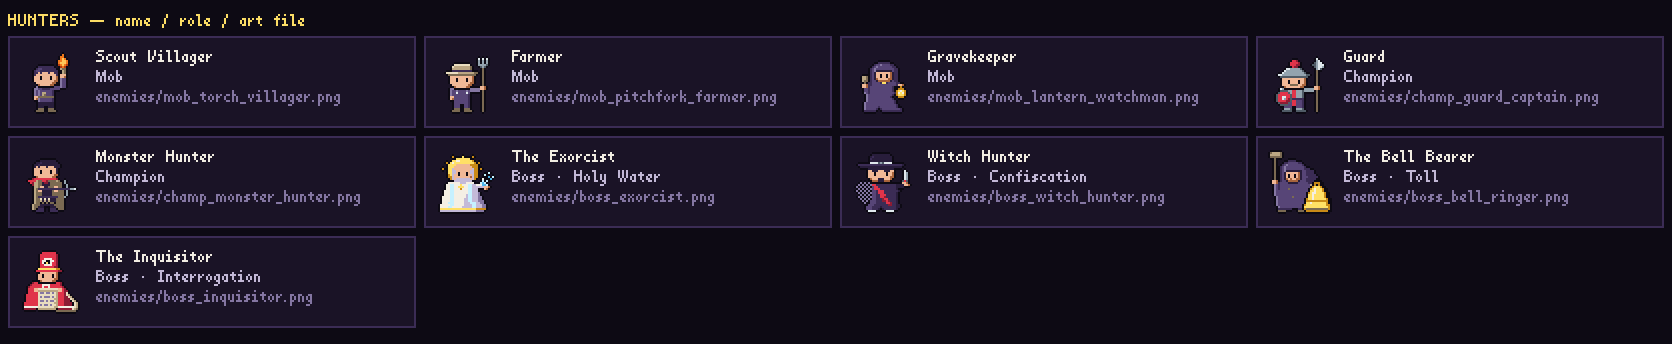
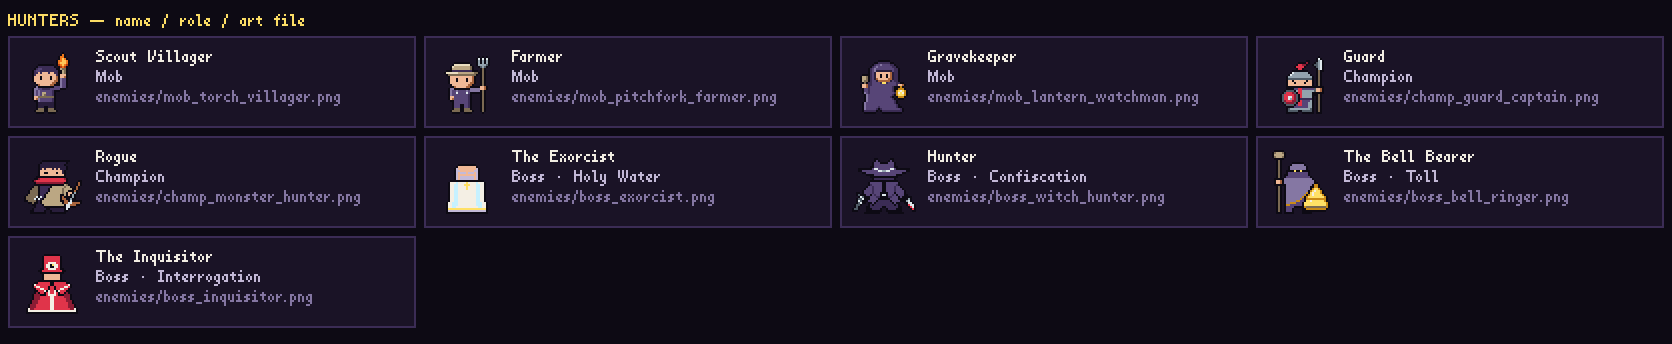
Add champion and boss repaints, rename Hunter and Rogue

diff --git a/tools/art/enemies_dice.py b/tools/art/enemies_dice.py
@@ -70,9 +70,10 @@ def character(rows: list[str], legend: dict | None = None, *, dx: int = 0,
               props: list[tuple[list[str], int, int]] | None = None) -> Image.Image:
     """Grid -> 96x32 sheet: idle0, idle1 (1 px breath, feet fixed), hurt (recoil, eyes shut).
 
-    The row-shear hurt is a placeholder: the designer's style (ART_SPEC §4.5a, boss_bell_ringer.png,
-    hand-painted) distorts the head and breaks the eyes by hand. Repainted sheets are kept on a plain
-    run; never regenerate them with --only / --all.
+    The row-shear hurt is a placeholder: the designer's style (ART_SPEC §4.5a) distorts the head and
+    breaks the eyes by hand. Every champion and boss sheet is hand-painted (2026-10-30); only the
+    three mobs still come from these grids. Repainted sheets are kept on a plain run; never
+    regenerate them with --only / --all.
 
     `props` are grounded part grids (x, y in body-grid coordinates) that do not breathe or
     recoil; each gets its own N0 ring so it stays separated from the body it overlaps.

diff --git a/ART_SPEC.md b/ART_SPEC.md
@@ -194,7 +194,8 @@ Used when the army exceeds 60 visible sprites (GAME_SPEC §11.2).
 
 #### 4.5a Hunter style — designer reference `BOSS_BELL_RINGER` (repaint 2026-10-30)
 
-Every hunter repaint follows the Bell Ringer. Measured on its sheet (10 colours, bbox 29×32):
+Every hunter repaint follows the Bell Ringer; the champion and boss repaints of 2026-10-30 confirm it.
+Measured on its sheet (10 colours, bbox 29×32):
 
 | Trait | Rule |
 |---|---|
@@ -209,6 +210,9 @@ Every hunter repaint follows the Bell Ringer. Measured on its sheet (10 colours,
 | Colours | ≤ 12 (Bell Ringer: 10): `N0`, body mid + shade, accent 2 tones, wood 2 tones, skin 2 tones, `N7` |
 | `idle1` | The head and shoulders (the rows above the cloak's widest line) move **down 1 px**; hem, legs, hand, tool and prop stay |
 | `hurt` | Distorted and grimacing, drawn by hand (no row shear): the head mass **deforms** (pinched up into two points, like hair standing on end), the eye slit **breaks** into a scribble of accent pixels across 2–3 rows, the head shifts 1 px away from the hit, the free arm is **flung out** diagonally (2–3 px of skin). Legs, tool and prop do not move; lowest row stays 31 |
+| `hurt` vocabulary | Pick 2–3 per hunter: **X eyes** (a 3×3 `x` in `N0` or the accent) — every repaint uses them; **head deform** into two points (Bell Ringer, Exorcist); **flung arms** out of the robe (Exorcist, Bell Ringer); **red hit marks**: small `R1` crosses scattered on the body / armour (Guard, Hunter), eyes turning `R1`. When the headgear *is* the character (Inquisitor's eye hat), the headgear takes the hit: it crumples and an X covers its eye. No new colours in `hurt` |
+| Faces | Hidden behind the costume (Bell Ringer slit, Hunter brim, Exorcist hood, Rogue scarf) or a small skin band with 1 px dash eyes (Guard, the man under the Inquisitor's hat) |
+| Colour budget | As few as the role needs: the bosses use 6–7 colours, the champions 11–12; the limit stays 12 |
 
 Checklist for the next repaint: silhouette first at ×1; count colours (≤ 12); 1 px `N0` between parts;
 diff `idle0` / `idle1` (only the upper rows moved 1 px); diff `idle0` / `hurt` (feet and props
@@ -220,12 +224,12 @@ hunter) after `godot --headless --import`.
 | MOB_TORCH_VILLAGER | Peasant in patched tunic holding a torch high | Fire |
 | MOB_PITCHFORK_FARMER | Straw hat, overalls, pitchfork | Metal |
 | MOB_LANTERN_WATCHMAN | Hooded night watchman with lantern and rattle | Gold |
-| CHAMP_GUARD_CAPTAIN | Helmet with red plume, halberd, small shield | Metal + R1 |
-| CHAMP_MONSTER_HUNTER | Long coat, crossbow, wooden stakes on belt | B0 leather + R1 |
-| BOSS_EXORCIST | White-robed priest, sun-disc pendant, holy-water flask splashing | I2 + G1 |
-| BOSS_WITCH_HUNTER | Wide-brimmed hat, net over shoulder, silver dagger, red sash | R1 + M2 |
+| CHAMP_GUARD_CAPTAIN | "Guard": steel helmet with red plume, spear, round red shield, red tabard stripe | M0 / M1 + R1 |
+| CHAMP_MONSTER_HUNTER | "Rogue": spiky black hair, red scarf over the mouth, tan cloak, crossbow at the hip | B1 cloak + R1 |
+| BOSS_EXORCIST | White robe block with a pale hood hiding the face, gold cross on the chest, icy shine streaks | N7 / I2 + G1 |
+| BOSS_WITCH_HUNTER | "Hunter": wide-brimmed hat with a pointed crown hiding the face (white band glint), long dark coat, a dagger in each hand | N3 / N4 + M2 (R1 only when hurt) |
 | BOSS_BELL_RINGER | Hunched figure dragging a huge bronze bell | G0 + G1 |
-| BOSS_INQUISITOR | Tall red hat with open-eye emblem, red robes, long scroll | R0 + R1 |
+| BOSS_INQUISITOR | Tall red hat with a big open eye — the hat is the real Inquisitor, the small man below just carries it; red robe with cream trim | R0 / R1 + N7 |
 | SHOPKEEPER_UNDERTAKER | Skeletal merchant in top hat behind a coffin counter (2 frames, 64×32 sheet) | N4 + G1 |
 
 **Enraged** (Night 8): no new sprite. Runtime: modulate toward `R1` 35%, 1 px `R1` outline shader, `vfx/aura` loop behind.

diff --git a/docs/art_sheets/README.md b/docs/art_sheets/README.md
@@ -47,9 +47,9 @@ Generated by `python tools/art/compile_sheets.py` from data/ and data/text/ — 
 | MOB_PITCHFORK_FARMER | Farmer | Mob | `assets/sprites/enemies/mob_pitchfork_farmer.png` | `tools/art/enemies_dice.py` |
 | MOB_LANTERN_WATCHMAN | Gravekeeper | Mob | `assets/sprites/enemies/mob_lantern_watchman.png` | `tools/art/enemies_dice.py` |
 | CHAMP_GUARD_CAPTAIN | Guard | Champion | `assets/sprites/enemies/champ_guard_captain.png` | `tools/art/enemies_dice.py` |
-| CHAMP_MONSTER_HUNTER | Monster Hunter | Champion | `assets/sprites/enemies/champ_monster_hunter.png` | `tools/art/enemies_dice.py` |
+| CHAMP_MONSTER_HUNTER | Rogue | Champion | `assets/sprites/enemies/champ_monster_hunter.png` | `tools/art/enemies_dice.py` |
 | BOSS_EXORCIST | The Exorcist | Boss · Holy Water | `assets/sprites/enemies/boss_exorcist.png` | `tools/art/enemies_dice.py` |
-| BOSS_WITCH_HUNTER | Witch Hunter | Boss · Confiscation | `assets/sprites/enemies/boss_witch_hunter.png` | `tools/art/enemies_dice.py` |
+| BOSS_WITCH_HUNTER | Hunter | Boss · Confiscation | `assets/sprites/enemies/boss_witch_hunter.png` | `tools/art/enemies_dice.py` |
 | BOSS_BELL_RINGER | The Bell Bearer | Boss · Toll | `assets/sprites/enemies/boss_bell_ringer.png` | `tools/art/enemies_dice.py` |
 | BOSS_INQUISITOR | The Inquisitor | Boss · Interrogation | `assets/sprites/enemies/boss_inquisitor.png` | `tools/art/enemies_dice.py` |
 

diff --git a/.claude/skills/godot-debugging-testing/references/sandbox-and-screenshots.md b/.claude/skills/godot-debugging-testing/references/sandbox-and-screenshots.md
@@ -43,7 +43,9 @@ How it must work:
 7. Use the console binary so a failed capture prints something.
 8. To catch a transient (a 0.1 s punch or shake), slow the game rather than guessing the
    frame: an `Engine.time_scale` argument (e.g. 0.1) plus a wait in game seconds. At full
-   speed the first frames of a fresh window hitch, so a timed shot lands between beats.
+   speed the first frames of a fresh window hitch, so a timed shot lands between beats. For a
+   state that lasts a while (a hurt or stunned pose), a preset that sets the view's state flag
+   directly is deterministic and cheaper than timing the playback.
 
 Why a viewport read, not a desktop grab: nothing needs focus or to be on top (no stray
 windows in the frame), and no DPI trap — a non-DPI-aware desktop grab on a 125% display
